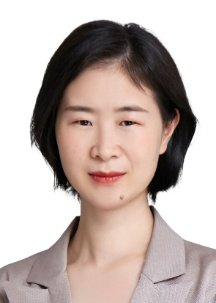
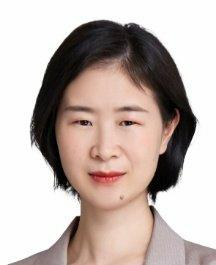
style: enlarge Peter Lobie photo and remove circular mask
- Replace .portrait circle with .team-lead-img rounded rectangle

- Add .profile-grid layout for better image/text balance

diff --git a/about.html b/about.html
@@ -83,9 +83,9 @@
                 </div>
 
                 <div class="card" style="margin-top: 24px;">
-                    <div class="grid-2" style="align-items:center;">
+                    <div class="profile-grid" style="align-items:center;">
                         <div class="img-card">
-                            <img src="images/about/peter-lobie.png" alt="Peter E. Lobie 院士" class="portrait">
+                            <img src="images/about/peter-lobie.png" alt="Peter E. Lobie 院士" class="team-lead-img">
                             <figcaption class="img-caption">Peter E. Lobie 院士</figcaption>
                         </div>
                         <div>

diff --git a/style.css b/style.css
@@ -1373,6 +1373,21 @@ h1 {
     text-align: center;
 }
 
+.profile-grid {
+    display: grid;
+    grid-template-columns: auto 1fr;
+    gap: 28px;
+}
+
+.team-lead-img {
+    max-width: 260px;
+    width: 100%;
+    height: auto;
+    border-radius: 16px;
+    background: #fff;
+    box-shadow: 0 10px 30px rgba(0, 0, 0, 0.25);
+}
+
 .portrait {
     width: 120px;
     height: 120px;
@@ -1564,6 +1579,10 @@ h1 {
     }
 
     .about-figure .grid-2 {
+        grid-template-columns: 1fr;
+    }
+
+    .profile-grid {
         grid-template-columns: 1fr;
     }
 }
